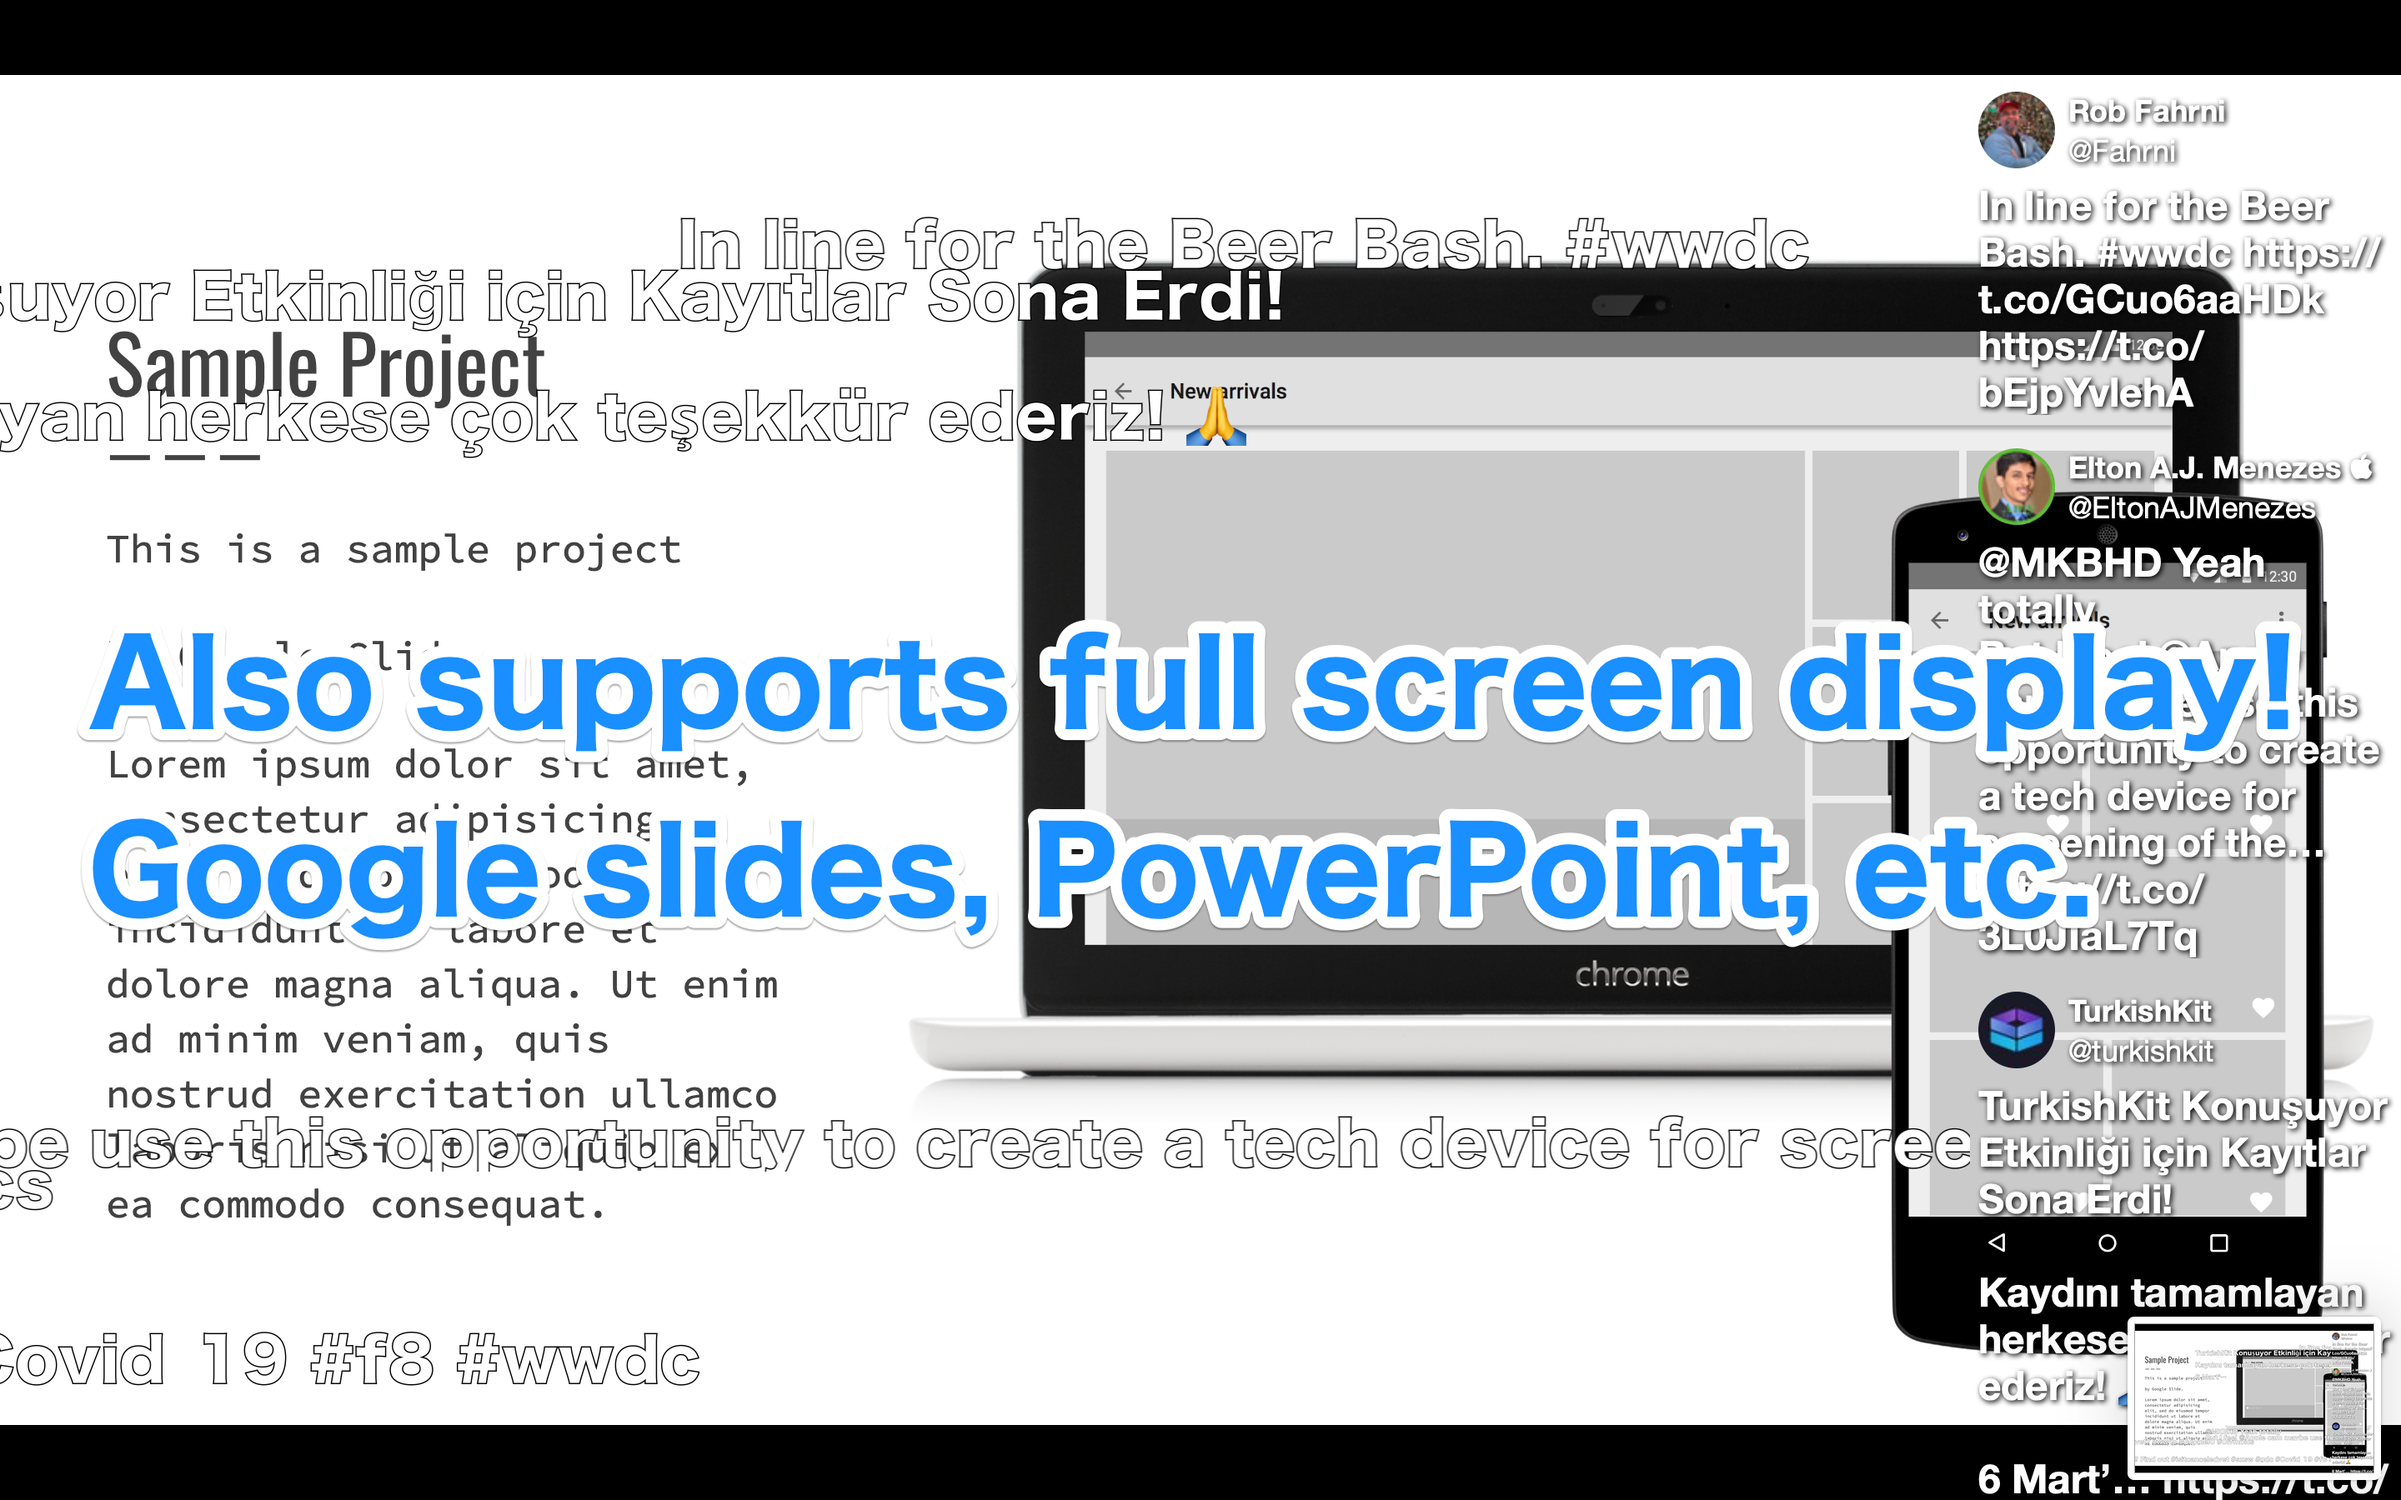
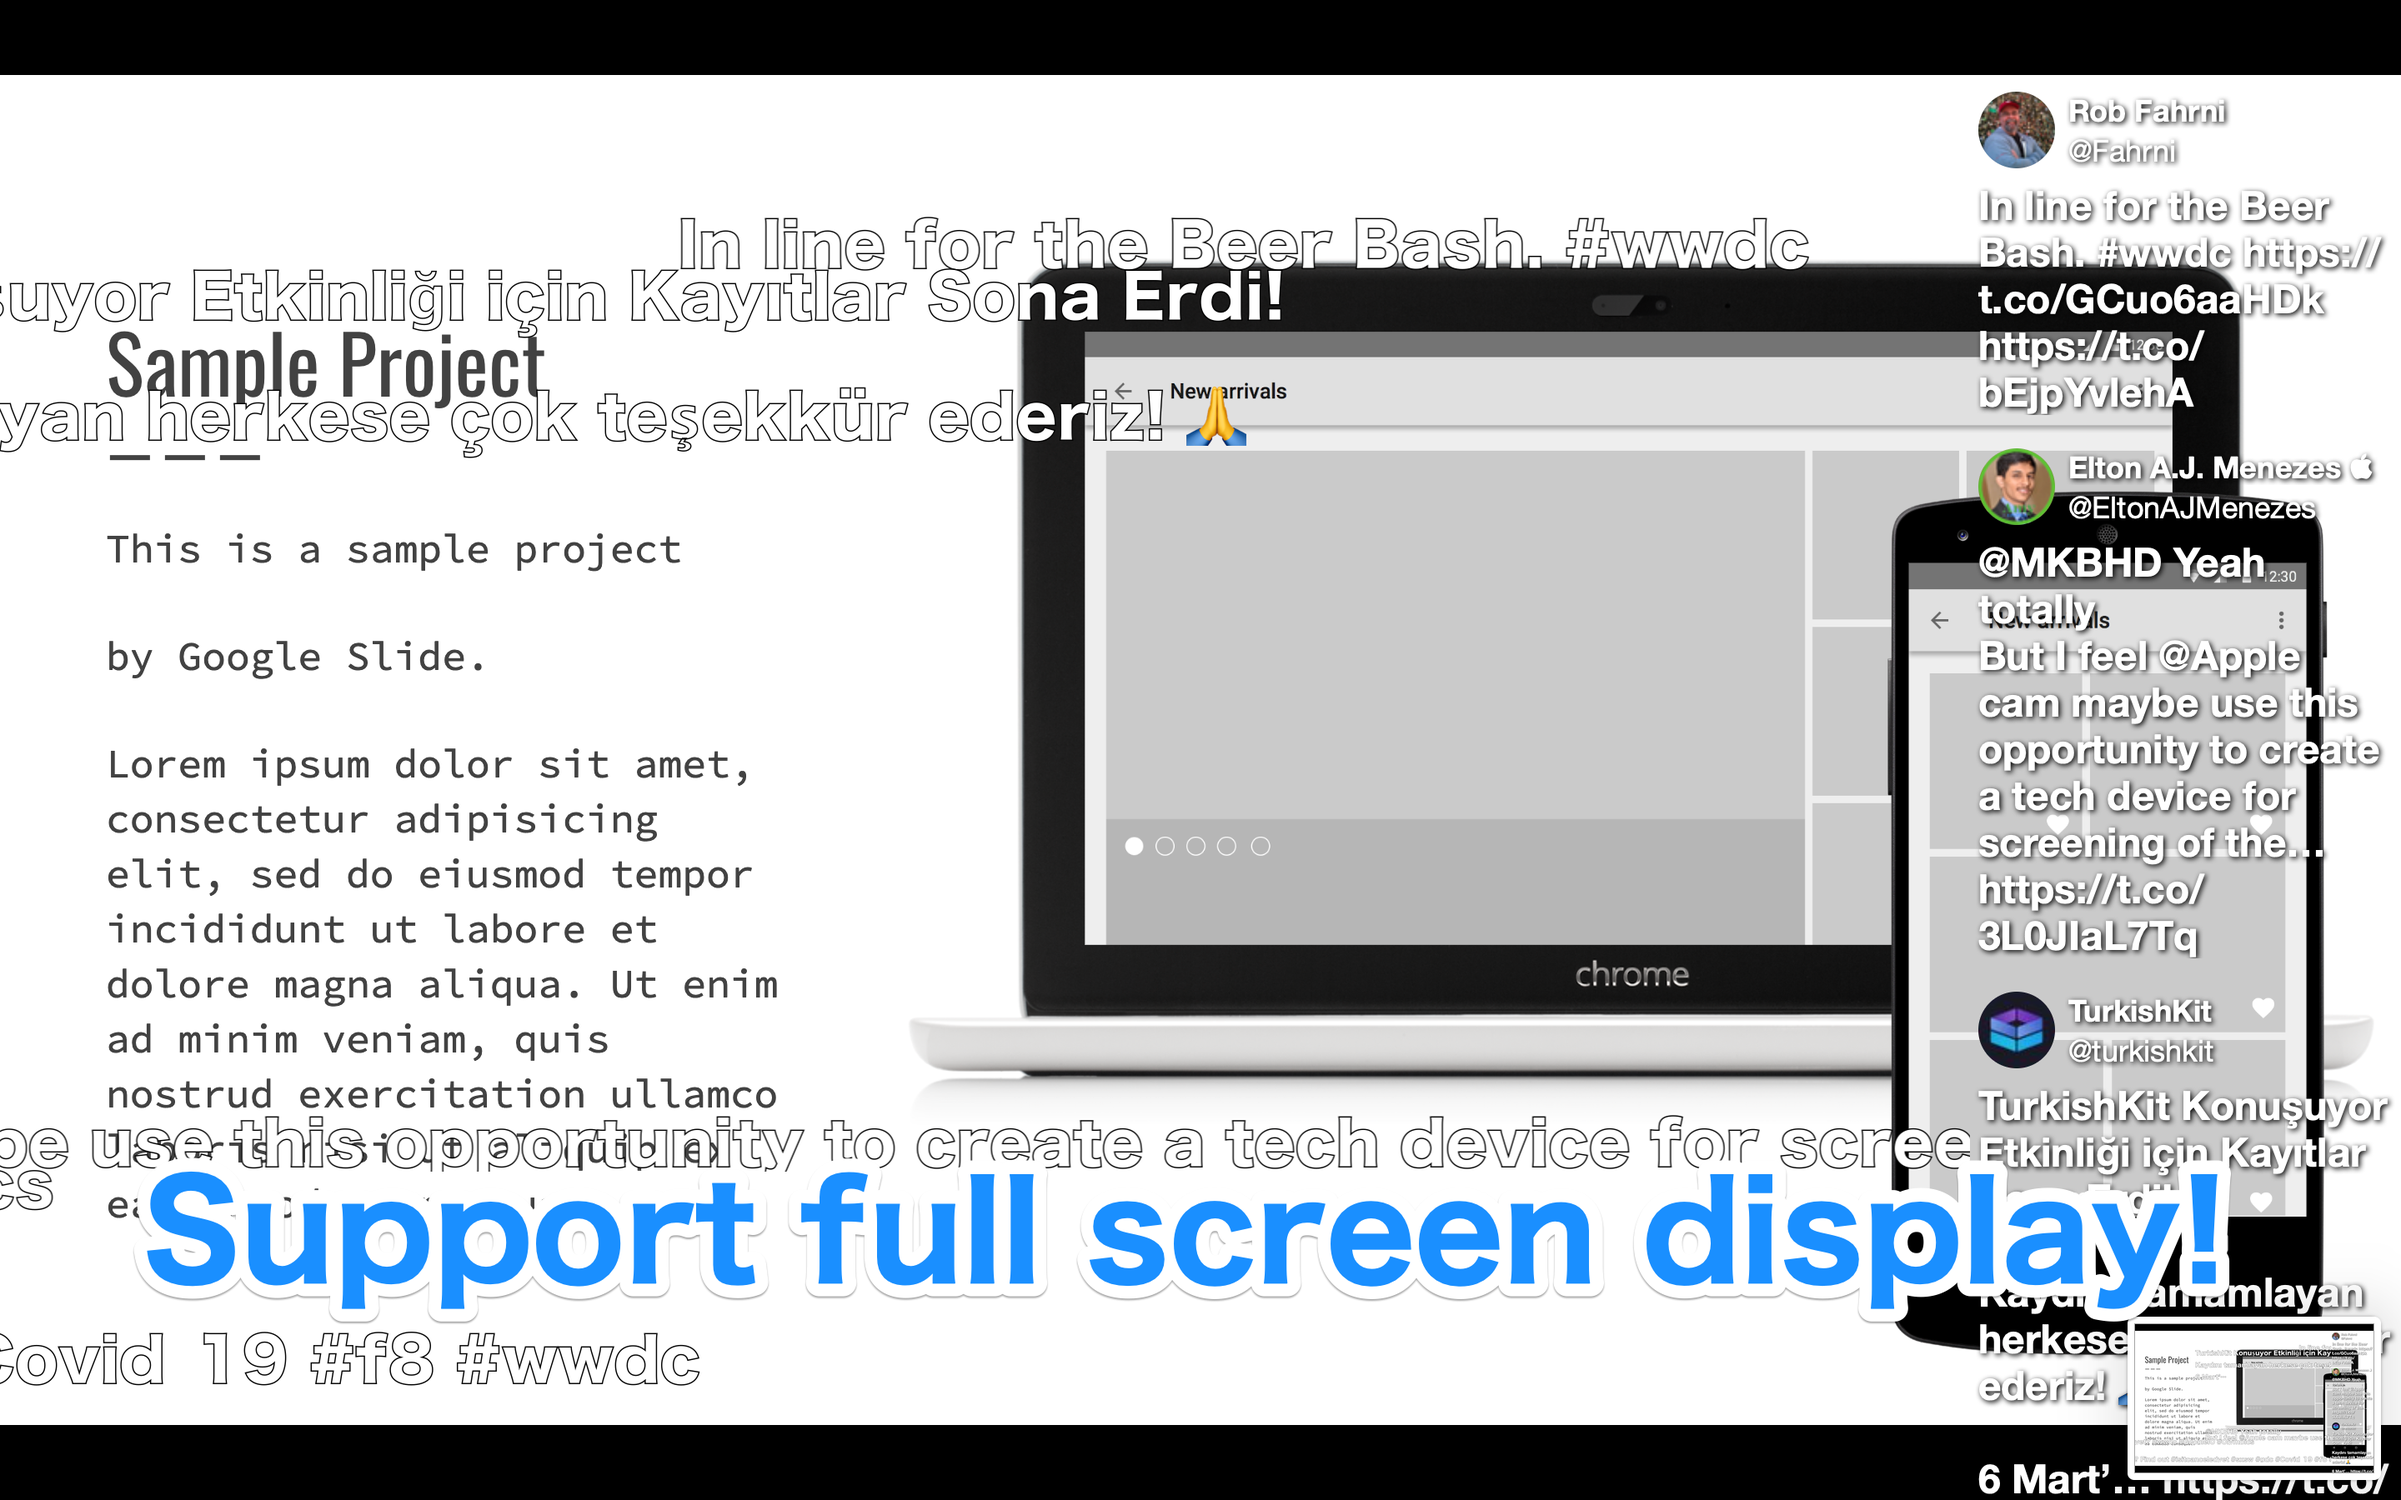
update images of support page

Changed region(s): [[0.0312, 0.4044, 0.9688, 0.6533], [0.0625, 0.7778, 0.9375, 0.9022]]

diff --git a/docs/TweetComment/support_page/support_ja.html b/docs/TweetComment/support_page/support_ja.html
@@ -274,7 +274,7 @@ pre[class*="language-"].line-numbers > code {
 <ul>
 <li>勉強会などのプレゼンテーションの際に、スライド上にツイッターのコメントを流したい。</li>
 </ul>
-<img width="600" alt="image" src="https://i.imgur.com/d7LdCcK.png">
+<img width="500" alt="image" src="https://i.imgur.com/L4cjkjp.png">
 <ul>
 <li>パソコンで生放送を見ているときに、ツイッターを表示したい。</li>
 </ul>

diff --git a/docs/TweetComment/support_page/support_en.html b/docs/TweetComment/support_page/support_en.html
@@ -274,7 +274,7 @@ pre[class*="language-"].line-numbers > code {
 <ul>
 <li>I want to share Twitter comments on slides during presentations such as study sessions.</li>
 </ul>
-<img width="600" alt="image" src="https://i.imgur.com/dWEFTcR.png">
+<img width="600" alt="image" src="https://i.imgur.com/saP0Nhk.png">
 <ul>
 <li>I want to display Twitter when watching live broadcasts on a personal computer.</li>
 </ul>

diff --git a/docs/TweetComment/support_page/support_ja.md b/docs/TweetComment/support_page/support_ja.md
@@ -10,7 +10,7 @@
 # こんなときに使える！
 - 勉強会などのプレゼンテーションの際に、スライド上にツイッターのコメントを流したい。
 
-<img width="600" alt="image" src="https://i.imgur.com/d7LdCcK.png">
+<img width="500" alt="image" src="https://i.imgur.com/L4cjkjp.png">
 
 - パソコンで生放送を見ているときに、ツイッターを表示したい。
 

diff --git a/docs/TweetComment/support_page/support_en.md b/docs/TweetComment/support_page/support_en.md
@@ -10,7 +10,7 @@
 # When can I use it?
 - I want to share Twitter comments on slides during presentations such as study sessions.
 
-<img width="600" alt="image" src="https://i.imgur.com/dWEFTcR.png">
+<img width="600" alt="image" src="https://i.imgur.com/saP0Nhk.png">
 
 - I want to display Twitter when watching live broadcasts on a personal computer.
 
